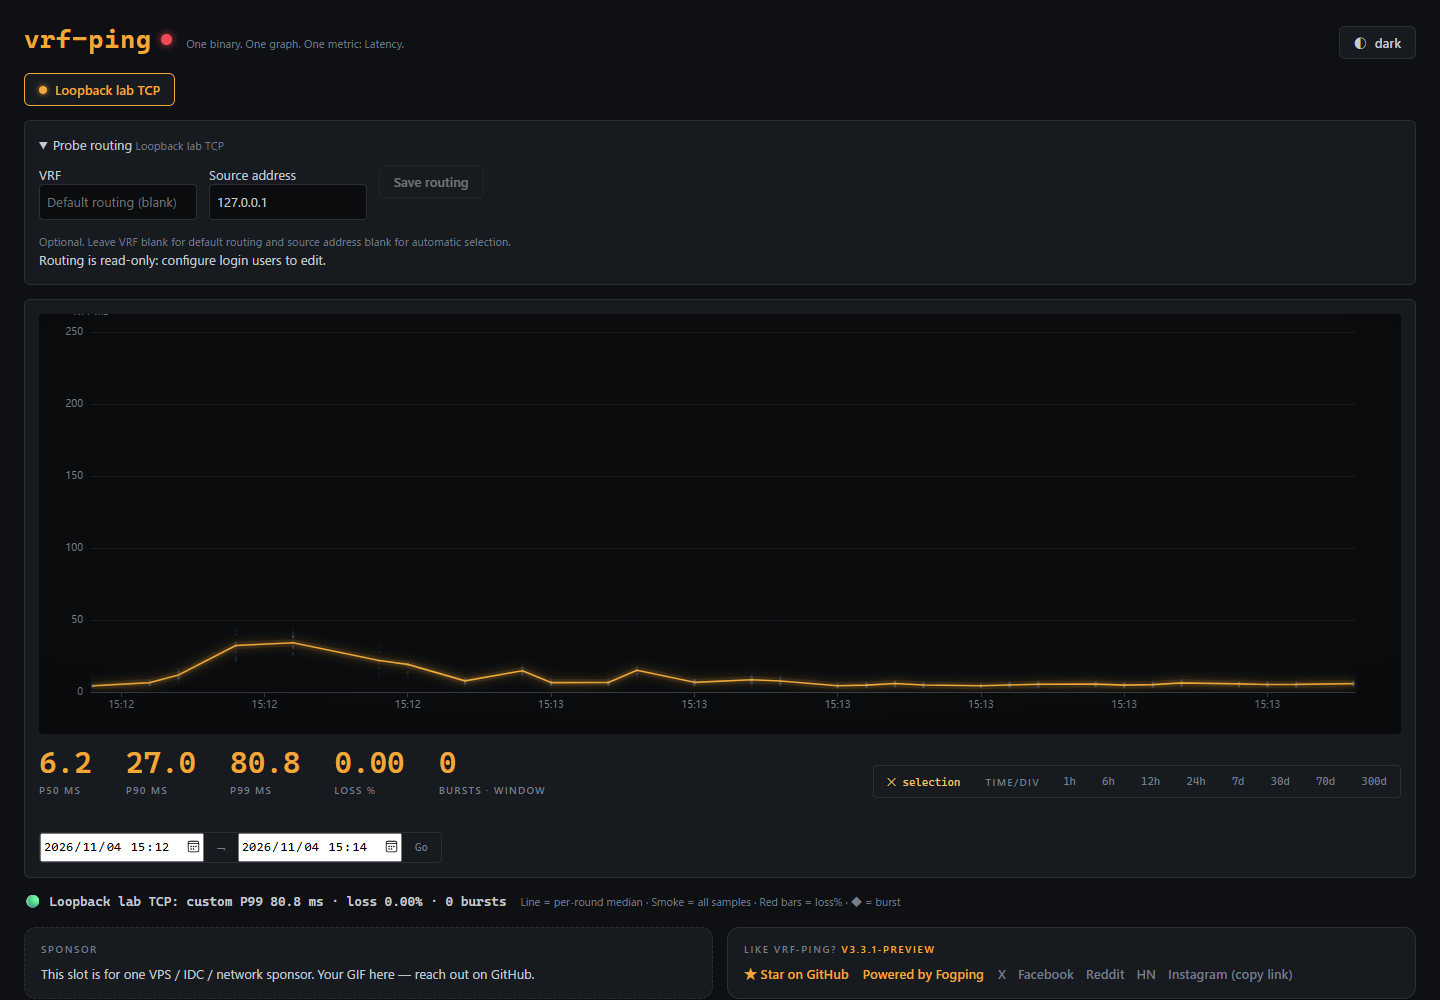
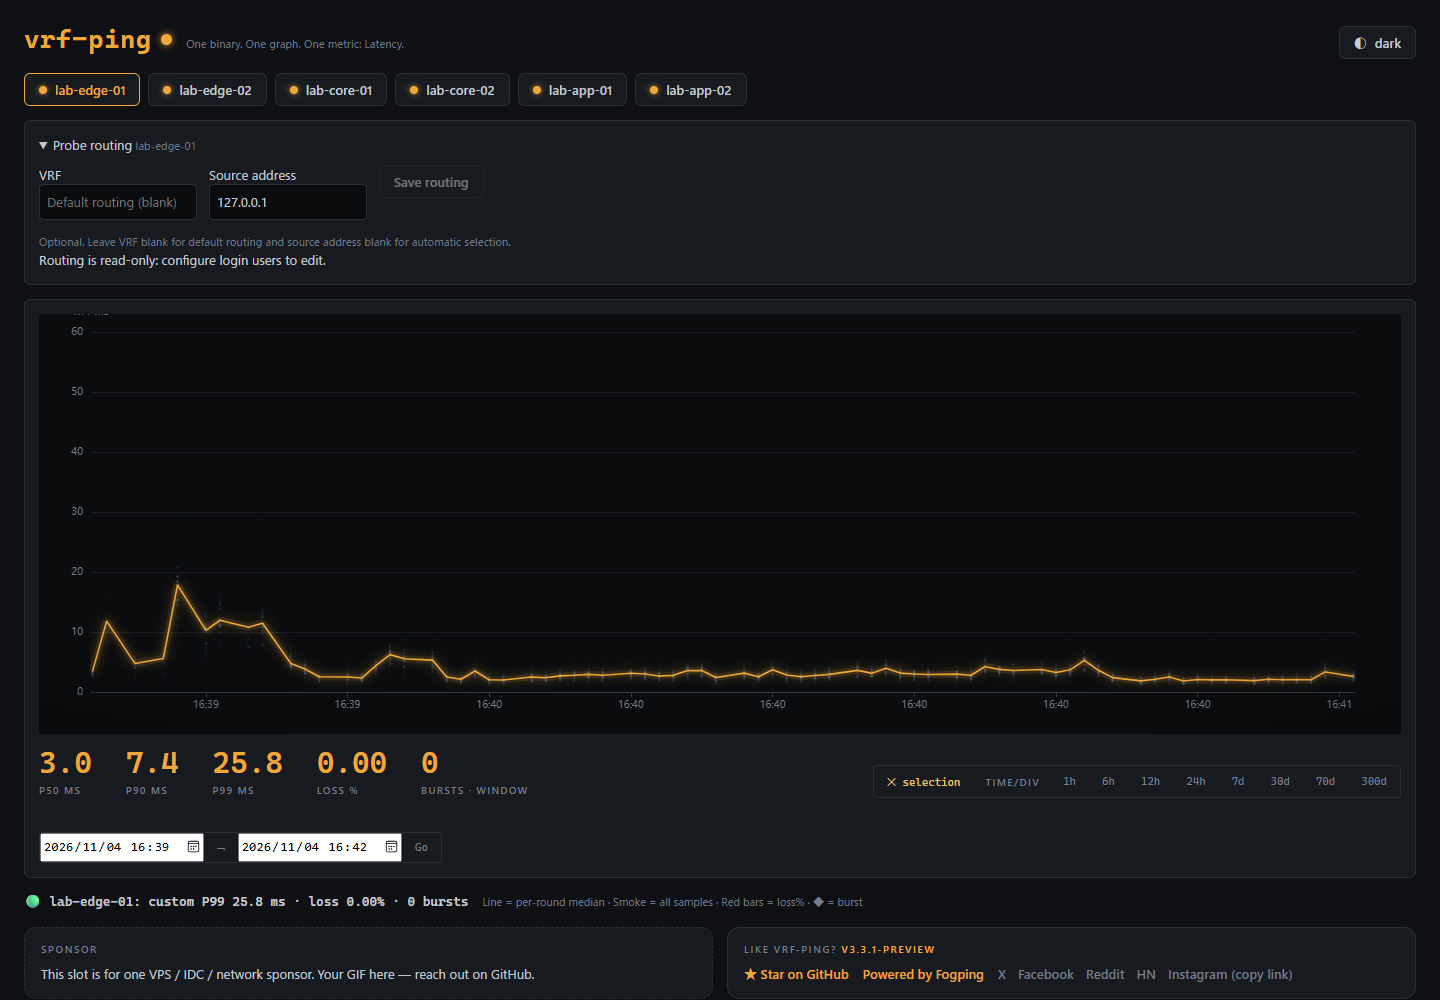
docs: refresh screenshot with six real probe targets

diff --git a/README.md b/README.md
@@ -9,7 +9,7 @@ A lightweight SmokePing alternative with optional per-target VRF and source-addr
 
 ![vrf-ping](docs/images/vrf-ping-graph.png)
 
-*Actual UI from a native development build, measuring TCP on an isolated loopback lab.*
+*Actual UI from a native development build, measuring six TCP targets in an isolated loopback lab.*
 
 ## Install
 
